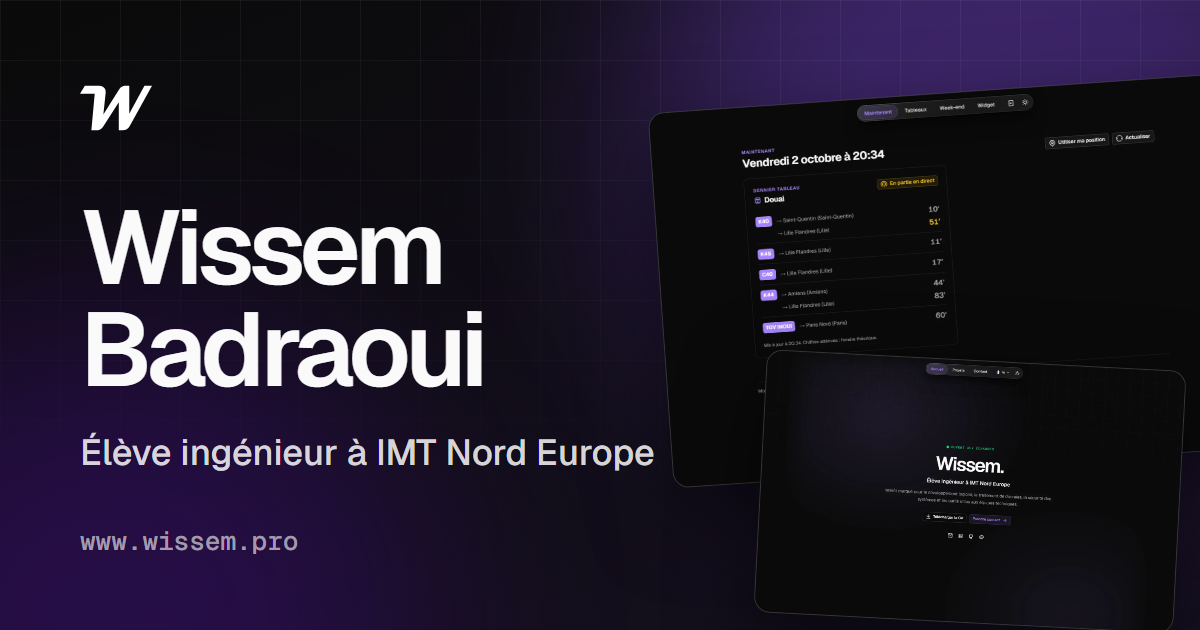
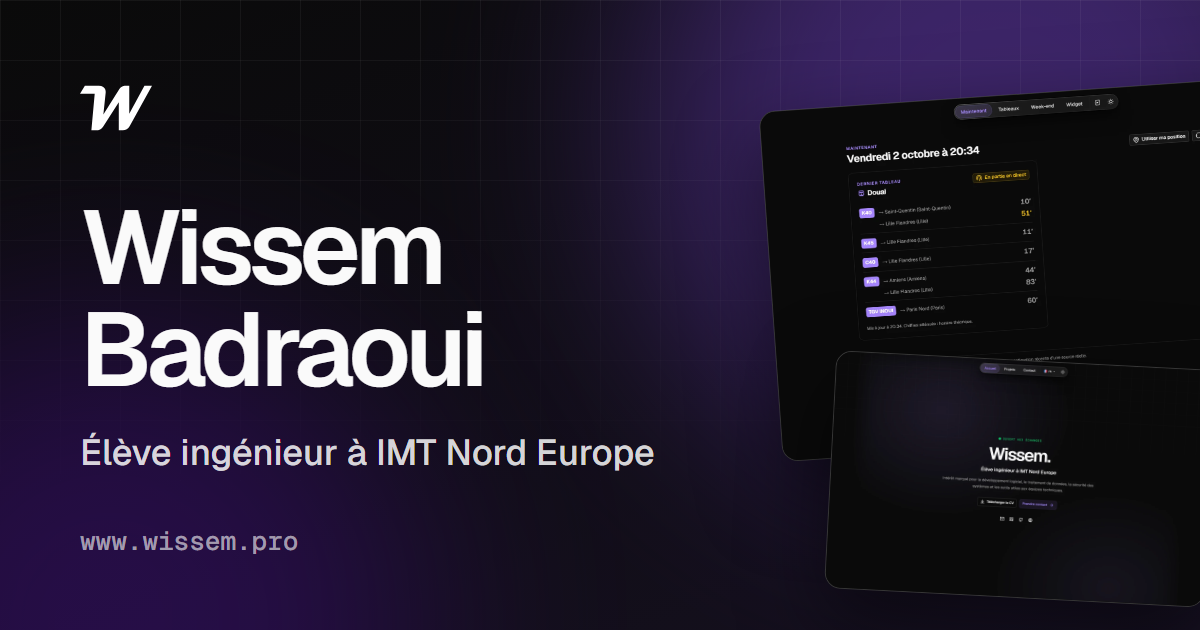
fix: keep the English sharing image title on one line
The wider title column matches the resume card so the two previews stay aligned.

diff --git a/scripts/og.ts b/scripts/og.ts
@@ -61,11 +61,11 @@ function template(locale: keyof typeof contentByLocale) {
     background-size: 60px 60px;
     mask-image: linear-gradient(to bottom, black, transparent 85%);
   }
-  .text { position: relative; width: 600px; }
+  .text { position: relative; width: 680px; }
   .logo { width: 72px; height: 72px; }
   .url { font: 500 26px "Geist Mono", monospace; color: rgba(250, 250, 250, 0.6); }
   h1 { font-size: 104px; font-weight: 600; letter-spacing: -0.05em; line-height: 0.98; }
-  .status { margin-top: 28px; font-size: 36px; font-weight: 500; color: rgba(250, 250, 250, 0.86); }
+  .status { margin-top: 28px; white-space: nowrap; font-size: 36px; font-weight: 500; color: rgba(250, 250, 250, 0.86); }
   .shot {
     position: absolute;
     overflow: hidden;
@@ -75,8 +75,8 @@ function template(locale: keyof typeof contentByLocale) {
     box-shadow: 0 30px 80px rgba(0, 0, 0, 0.55);
   }
   .shot img { display: block; width: 100%; }
-  .shot--main { top: 92px; left: 660px; width: 600px; transform: rotate(-4deg); }
-  .shot--side { top: 360px; left: 760px; width: 420px; transform: rotate(3deg); }
+  .shot--main { top: 92px; left: 770px; width: 560px; transform: rotate(-4deg); }
+  .shot--side { top: 360px; left: 830px; width: 380px; transform: rotate(3deg); }
 </style>
 <body>
   <div class="glow glow--a"></div>

diff --git a/CHANGELOG.md b/CHANGELOG.md
@@ -4,8 +4,14 @@ All notable changes to this project are documented here. The format follows [Kee
 
 ## [Unreleased]
 
+### Changed
+
 - Project card: Wissem Move is now called Move (identifier, title and image).
 - Project covers: Move shows a real board, the portfolio cover keeps the navigation bar; sharing images regenerated.
+
+### Fixed
+
+- English sharing image: the title stays on one line, like on the resume card.
 
 ## [1.1.0] - 2026-10-02
 
